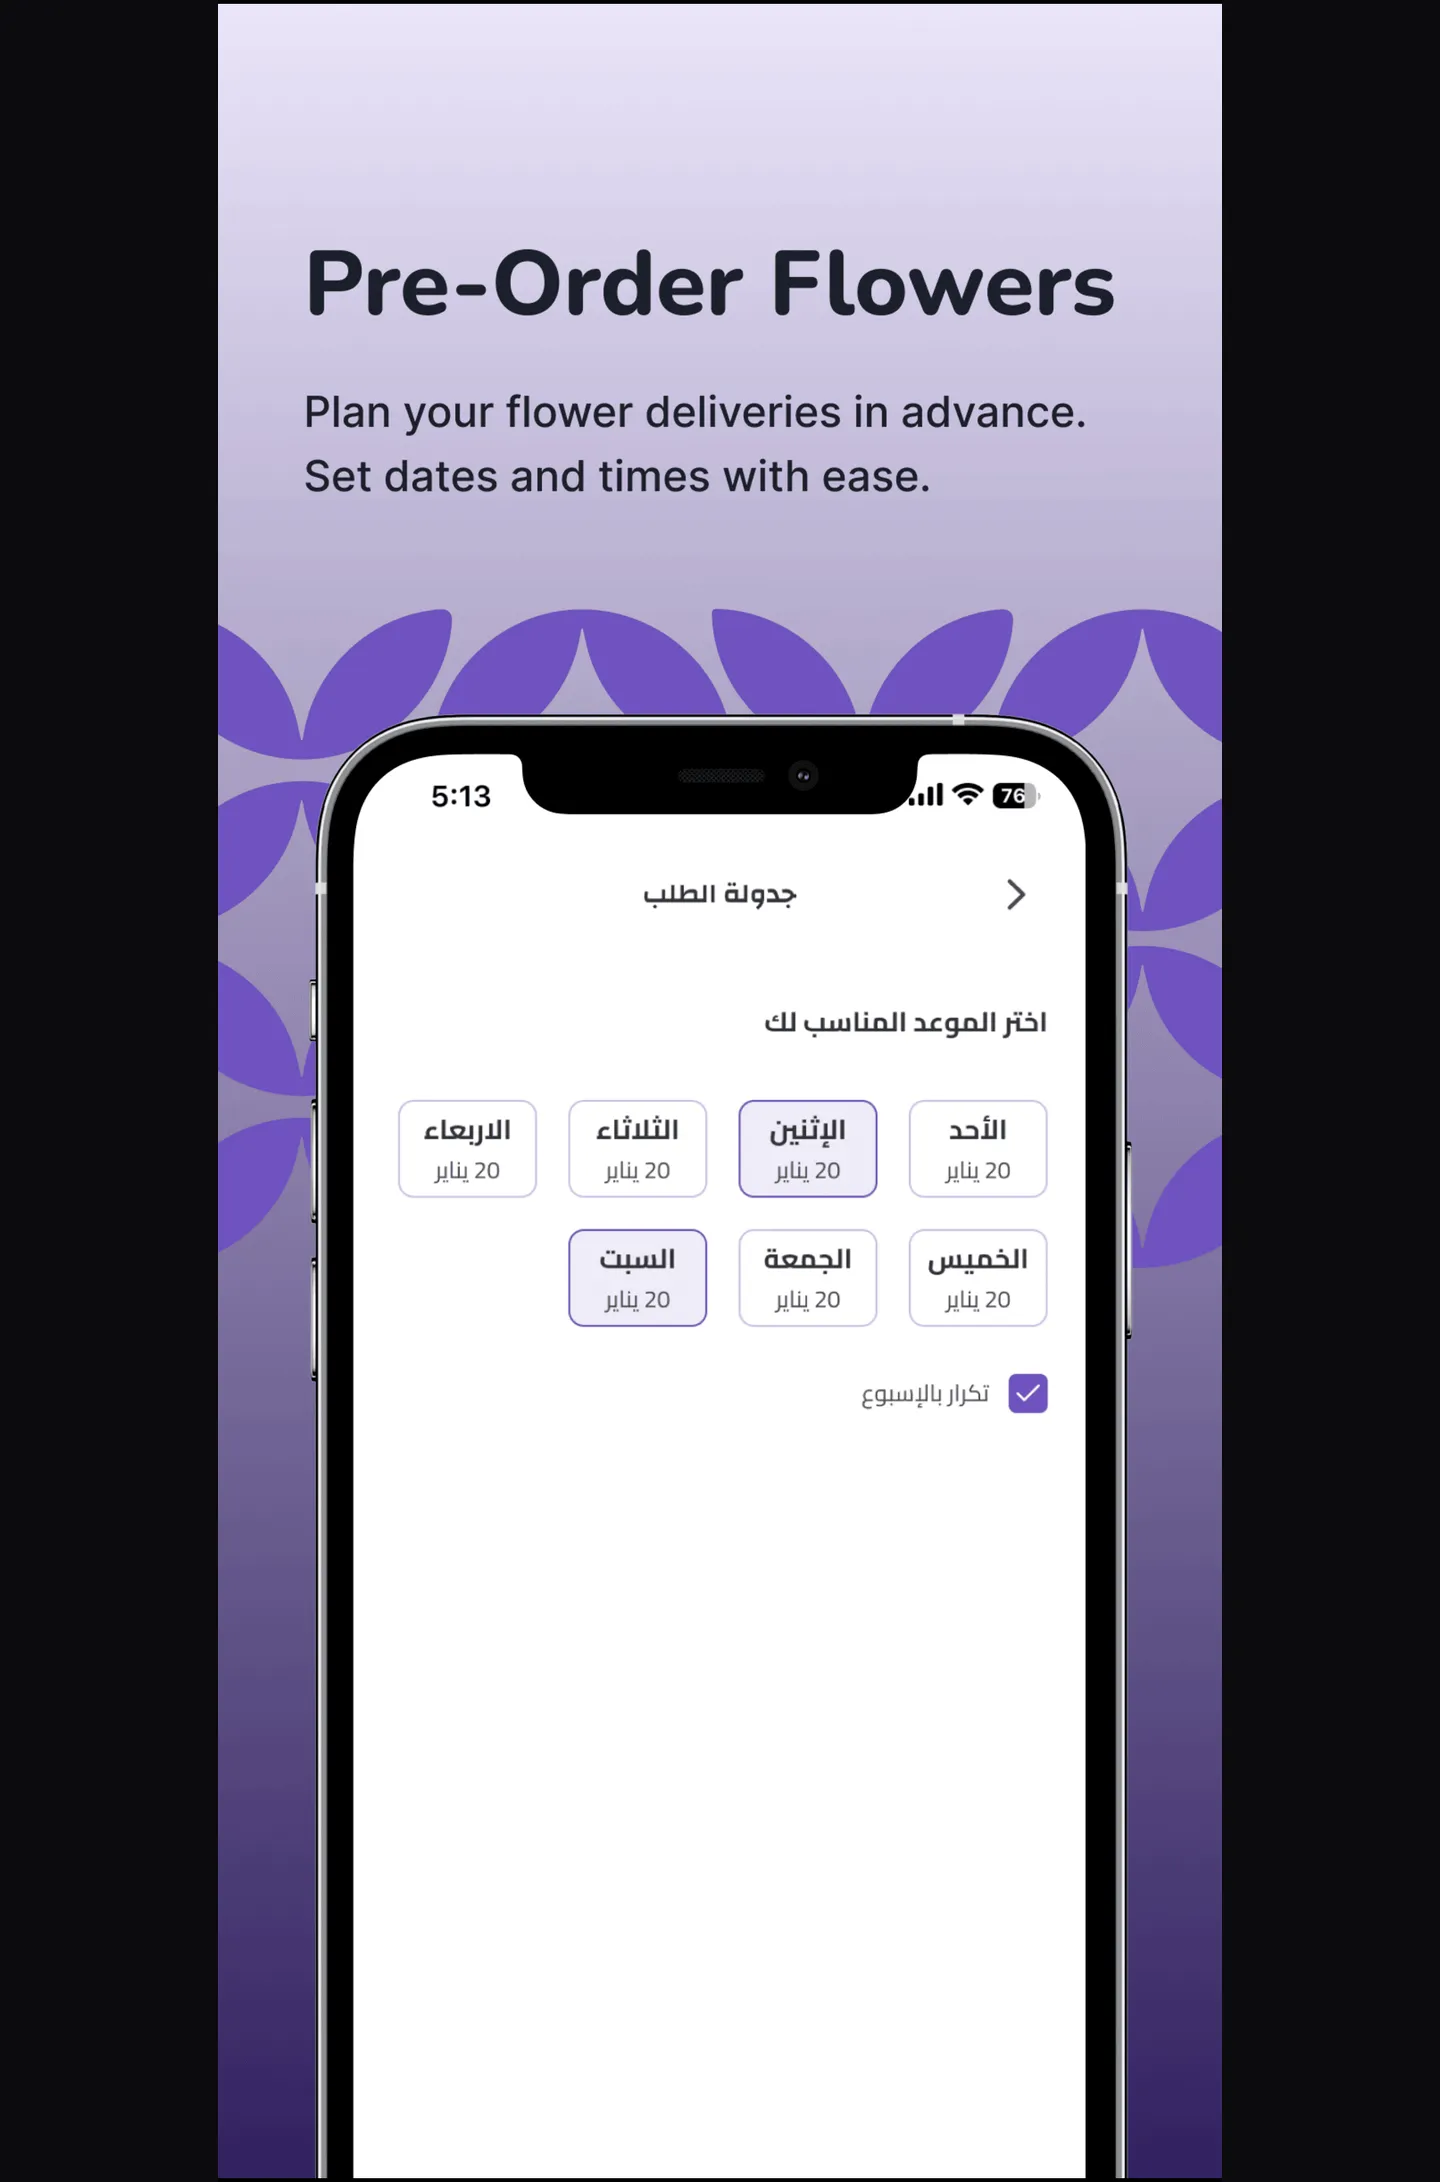
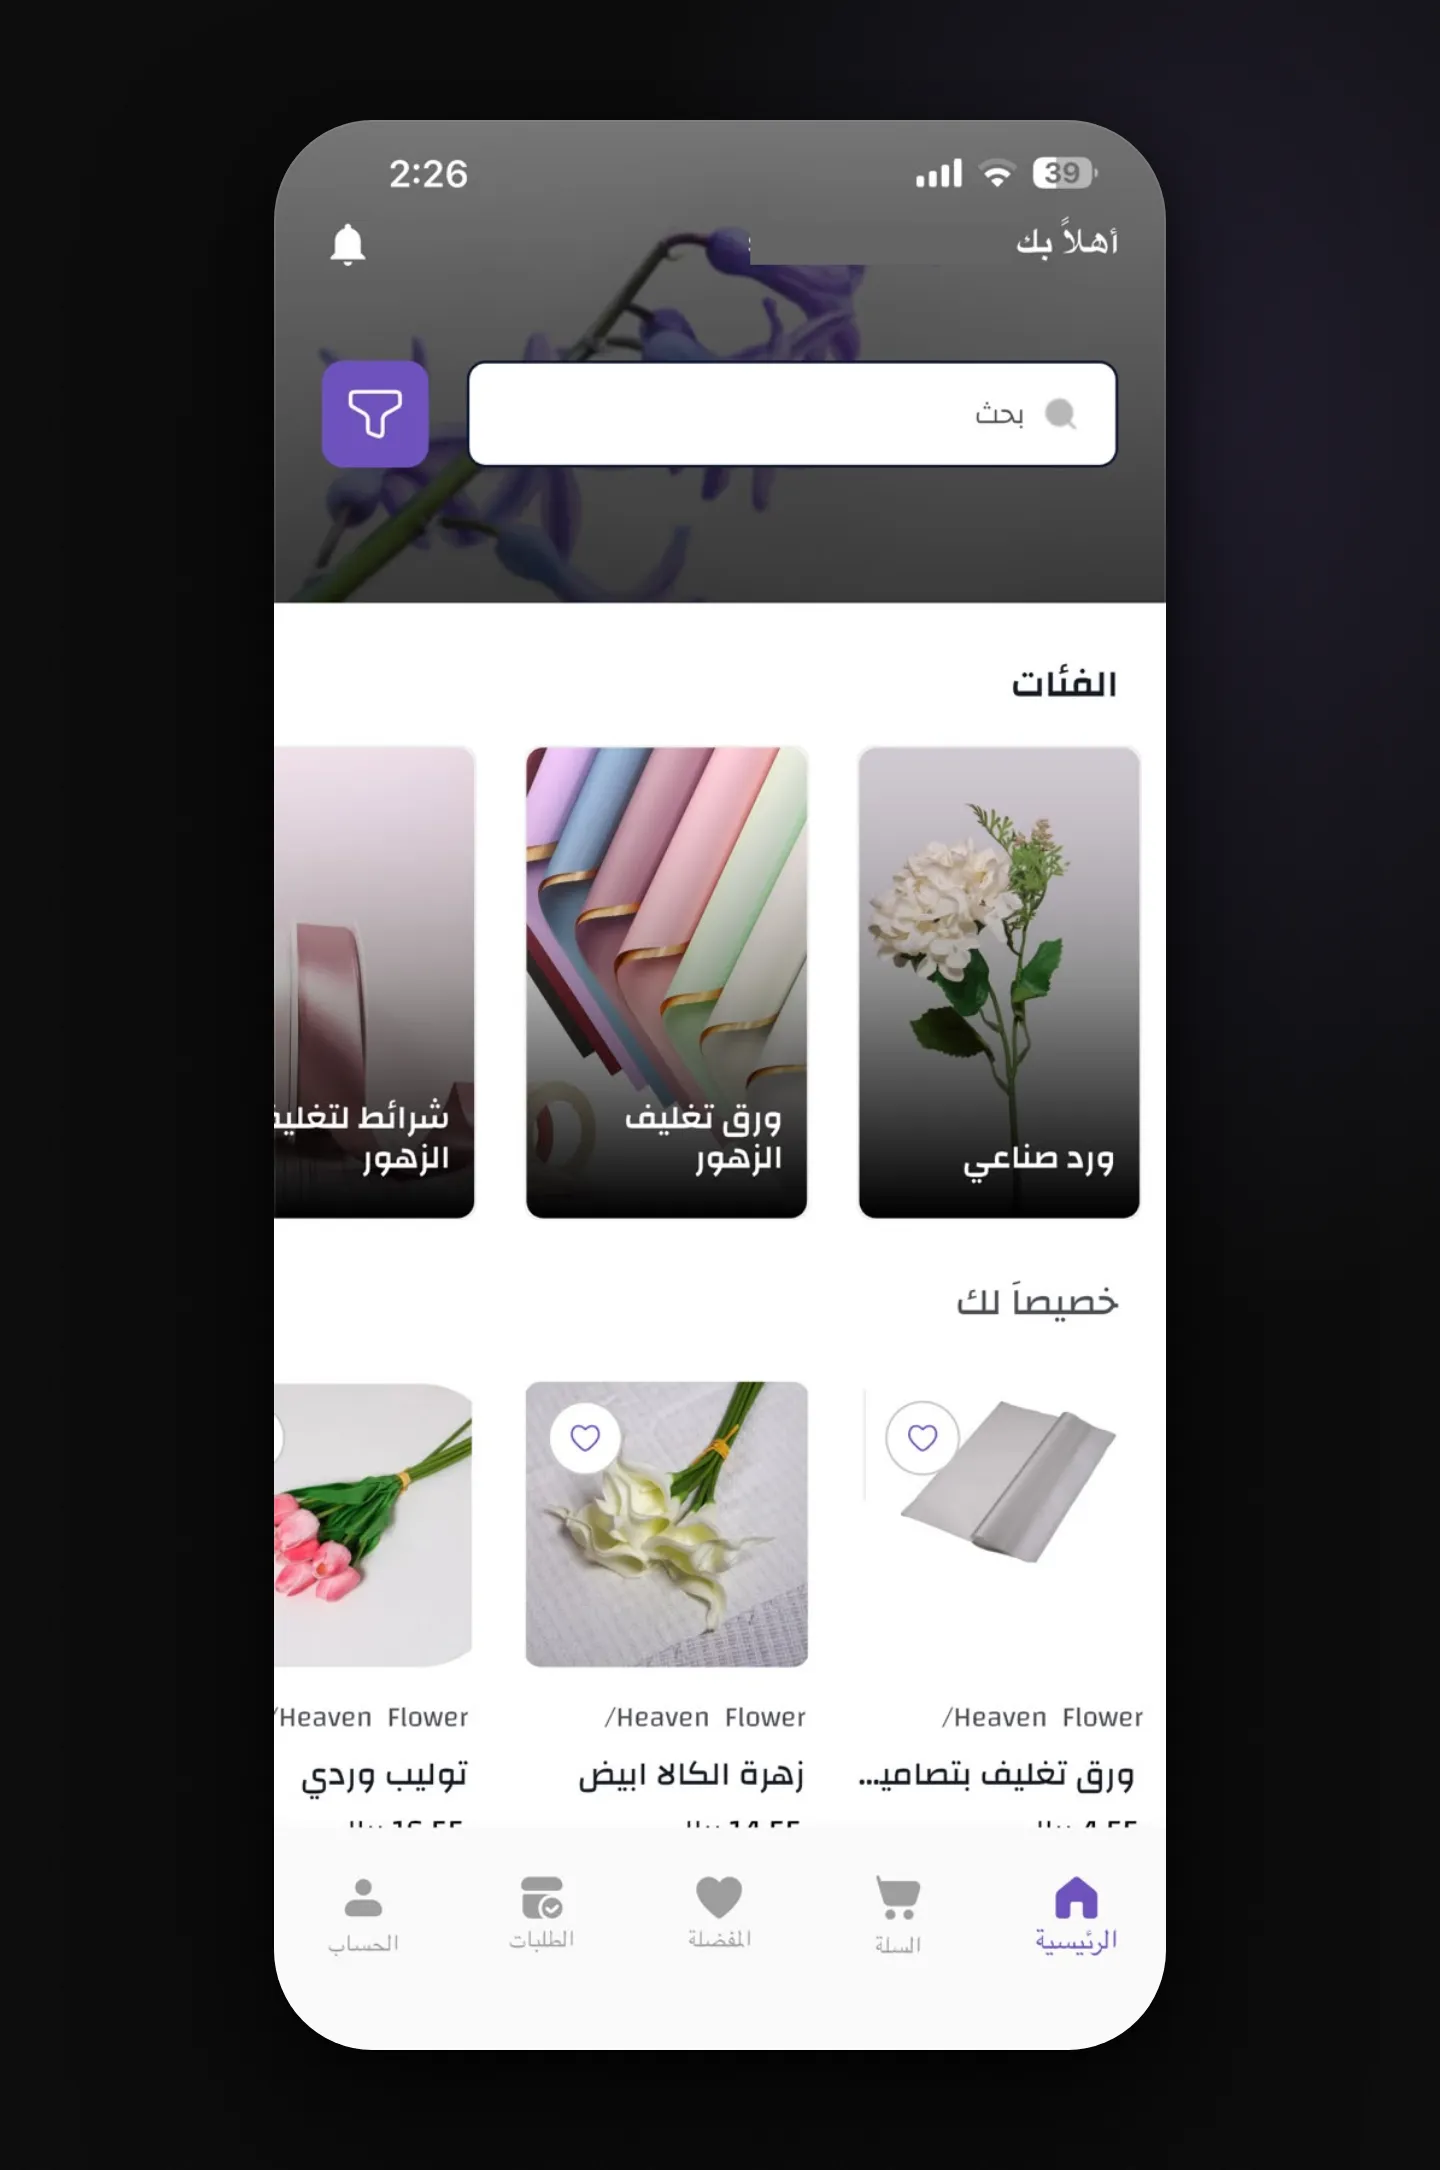
feat(content): Motary, Misr El Kheir, iTutor; real screens for Heaven Flowers and Yafleet
From the owner's Drive screenshot pack:
- new nodes M07 Motary (seller catalogue, 2024), M08 Misr El Kheir (offline queue
  for family members, 2025), M09 iTutor (React Native app, 2026); facts from git
- Heaven Flowers: raw in-app screens replace the store frames (tester name masked)
- Yafleet: screens instead of a badge (placeholder pictures masked)
- Qanony: + service-details screen; test/personal screens left out
Open questions in docs/owner-todo.md.

diff --git a/docs/owner-todo.md b/docs/owner-todo.md
@@ -178,7 +178,7 @@ Created Jan 12, 2024
 
 ## assets (added 2026-10-08 by the asset pipeline)
 - [ ] aratc: the home hero still shows "QA Private Session Course / Notification Trainer" demo text in one card (in-screen, can't mask). Recapture home with real/neutral course data for a cleaner hero? Current output is still good.
-- [ ] heaven-flowers: the screenshots you gave are pre-made store frames (phone already in a purple branded frame). They're fine as a gallery, but for the tilted hero/thumb I'd want raw in-app screens (no frame). Can you grab 4-5 raw captures (release mode, banner off)? Otherwise I'll use the framed ones as-is.
+- [x] heaven-flowers: *(answered by the Drive pack, 2026-10-30: raw screens now used; see below)* the screenshots you gave are pre-made store frames (phone already in a purple branded frame). They're fine as a gallery, but for the tilted hero/thumb I'd want raw in-app screens (no frame). Can you grab 4-5 raw captures (release mode, banner off)? Otherwise I'll use the framed ones as-is.
 - [ ] ehc-board (Egyptian Board health app): I have 5 clean screens — want me to add it as a project node + generate assets? (It's a government health app; you said all screenshots are OK to show.)
 - [ ] bioot (two real-estate apps): no screenshots yet. Send captures, or should I render a cloud/diagram-style cover from the repo instead?
 
@@ -198,3 +198,19 @@ Created Jan 12, 2024
 - [ ] **Bioot:** role written as "React Native developer: store readiness & releases" from your commits (SDK 54 upgrade, Play policy, App Store resubmission, signing, Facebook Login). Did you build more of the apps than that?
 - [ ] **Heaven Flowers:** placed at Jul 2025 (first App Store release). When did your work on it start?
 - [ ] **Medical Waste (MoH)** from your CV: your mobile commits are May 2026 in `~/work/medwaste`. Add it as a project? No screenshots/store link yet, so it would get a badge.
+
+## Drive screenshot pack (added 2026-10-30)
+Processed `drive-download-20261024…zip` (flowers, itutor, masr_alkher, motary, qanony, yafleet). New project nodes:
+**Motary (M07)**, **Misr El Kheir (M08)**, **iTutor (M09)**. Facts come from the git history; please check:
+- [ ] **Motary:** store links (Play / App Store), and is it still live? You made the most commits (Oct–Dec 2024, the
+      seller's catalogue: listings, add/edit product with images). Role says "Flutter developer"; should it say lead?
+- [ ] **iTutor:** public store links? Your commits (author `mhosny`, Sep–Oct 2026) are on the React Native app; are
+      any of the "iTutor Dev" commits yours too? The page says you worked on it *with the team*.
+- [ ] **Misr El Kheir** (GitLab `gharemeen`): your only commit there is the offline queue for family members (Oct 2025),
+      so the card says "Flutter developer (offline sync)". Did you do more (another repo or name)? Store link?
+- [ ] **Heaven Flowers:** the new raw screens are 740 px wide (guideline ≥ 1000), so the 2× images are a little soft.
+      Full-resolution captures would fix it. The home greeting showed a tester's name: painted out.
+- [ ] **Yafleet:** the demo shipments use "600 × 400" placeholder pictures. Painted out on the home screen; the
+      shipment-detail screen (one big placeholder) is left out. Recapture with real package photos to show it.
+- [ ] **Qanony:** only the service-details screen was added. The pack's other screens show test entries ("cc", "dd"),
+      uploaded personal files, and a real profile (name, email, phone). Recapture with demo data if you want them.

diff --git a/docs/adding-projects.md b/docs/adding-projects.md
@@ -118,15 +118,16 @@ Commit: `feat(content): <slug>`.
 Ticked when the content node exists. ❓ = needs a fact or permission from the owner first.
 
 - [x] Qanony · ARATC · Release pipeline · App security · HOPE glove · German Sync · AWS SAA
+- [x] From the Drive pack (2026-10-30): **Motary**, **Misr El Kheir** (GitLab `gharemeen`), **iTutor**; raw screens for
+      **Heaven Flowers** and **Yafleet** (store links / role questions in `owner-todo.md`)
 - [ ] **Medical Waste Management System** (Ministry of Health, 600+ facilities, multi-level approvals), screenshots ❓
 - [ ] **UNICEF child-protection case management** (offline-first delayed sync, dynamic forms), screenshots ❓
 - [ ] **Form-orchestration engine** / `flutter_form_engine` (public repo): a natural Platform node
-- [ ] **Motary** and **Al-Diplomacy** e-commerce (UAE / Oman): store links ❓
+- [ ] **Al-Diplomacy** e-commerce (UAE): store links ❓ (Motary is in)
 - [ ] **Nilefy** open source (118 commits, encryption module, export/import, REST connector): a Platform/Cloud node with a
       GitHub link; strong backend signal
 - [ ] **wfm** (Riverpod 2, Dio/Retrofit, Hive, biometrics, FCM) and **star_wars_land** (Clean Architecture reference,
       30 test files, CI): public repos
-- [ ] **Heaven Flowers** (screens are store frames ❓), **EHC Board** (5 clean screens ready), **Bioot** (two apps, no
-      screens ❓), **Yafleet** (no code ❓)
+- [x] **Heaven Flowers**, **EHC Board**, **Bioot**, **Yafleet** (Yafleet: no code ❓)
 - [ ] Older timeline: **Freelance** role node, **IEEE Flutter** (committee head 2020, instructor), **EGPI simulator**, **Al3wn**
 - [ ] Dates disagree between sources: see `docs/owner-todo.md` ("CV vs LinkedIn dates")

diff --git a/docs/HANDOFF.md b/docs/HANDOFF.md
@@ -1,4 +1,13 @@
-# HANDOFF — read this first (2026-10-08, end of session 3)
+# HANDOFF — read this first (2026-10-08, end of session 3; session 4 notes below)
+
+## Session 4 (2026-10) — done
+- CVs: `public/cv/*.pdf` served; the CV button downloads per track (`cvFile()` in `lib/features.ts`): the mobile CV
+  everywhere, the DevOps CV only on the Cloud track. Replace the PDFs in place to update them.
+- Vertical map (time runs down, layers become lanes) lives on branch `feat/vertical-map`, **awaiting owner review**;
+  `main` still has the horizontal map. Merge `main` into the branch after content changes.
+- Drive screenshot pack (2026-10-30): new nodes Motary (M07), Misr El Kheir (M08, GitLab `gharemeen`), iTutor (M09);
+  raw screens for Heaven Flowers (replaces the store frames) and Yafleet; Qanony +1 gallery screen. Masks can set a
+  `fill`, shots can `keepStatusBar`. Open questions in `owner-todo.md`.
 
 ## Session 3, later additions
 - Swipe back (`scripts/swipe-back.ts`): project page → map, intro world → language step. Never on the map.
